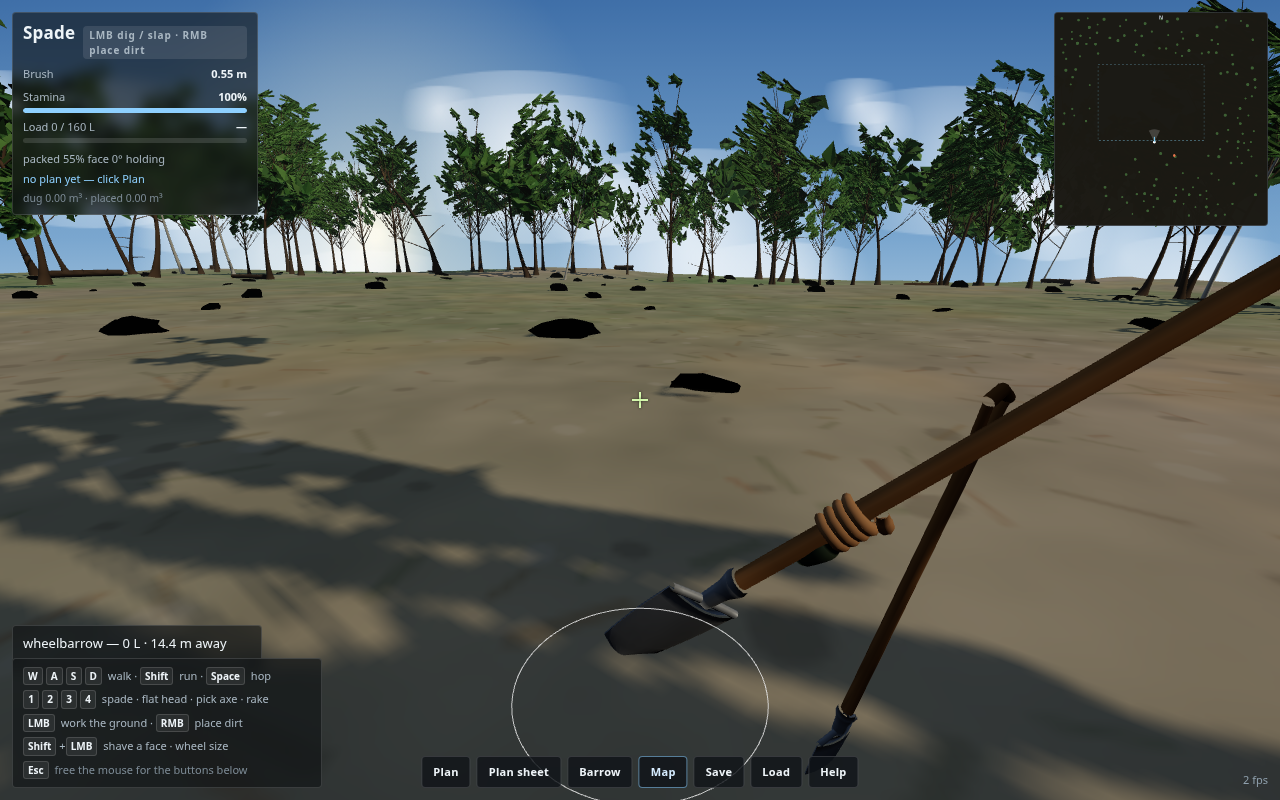
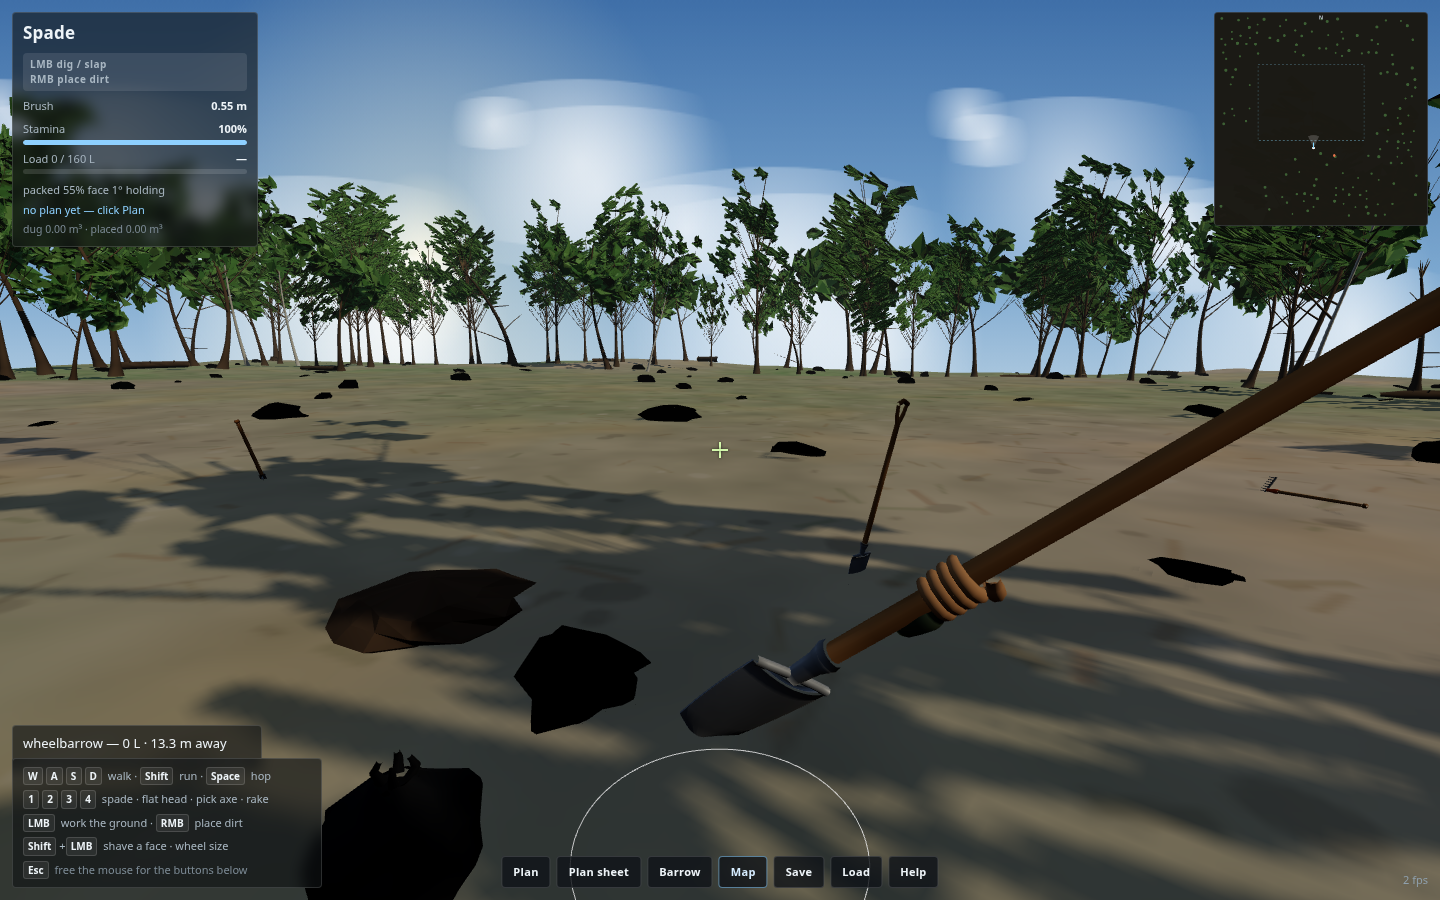
HUD: put the two mouse rules on their own two lines
The tool panel was squeezing 'LMB dig / slap - RMB place dirt' into one pill
that wrapped mid-phrase at 1440px. It is now a two-line block (LMB verb, then
RMB place dirt), so it reads the same at every width.

Also refreshed the controls screenshot, framing the held spade and the spade
standing in the dirt side by side instead of standing on top of the prop.

diff --git a/style.css b/style.css
@@ -40,8 +40,10 @@ html, body {
 #hudToolRow { display: flex; align-items: baseline; gap: 8px; }
 #hudTool { font-size: 17px; font-weight: 650; letter-spacing: .2px; }
 #hudMode {
-  font-size: 10px; font-weight: 700; letter-spacing: .9px;
-  padding: 2px 6px; border-radius: var(--r);
+  display: block; margin-top: 7px;
+  font-size: 10px; font-weight: 700; letter-spacing: .5px; line-height: 1.5;
+  white-space: pre-line;
+  padding: 4px 7px; border-radius: var(--r);
   background: rgba(255,255,255,.10); color: var(--dim);
 }
 #hudMode.pour { background: rgba(255, 209, 102, .18); color: var(--warn); }

diff --git a/js/ui.js b/js/ui.js
@@ -58,7 +58,7 @@ export const UI = {
   update(state) {
     const { player, planProgress, terrain, mode } = state;
     this.el.tool.textContent = player.tool.name;
-    this.el.mode.textContent = `LMB ${this.verb(player.tool.id)} · RMB place dirt`;
+    this.el.mode.textContent = `LMB ${this.verb(player.tool.id)}\nRMB place dirt`;
     this.el.mode.classList.toggle('pour', player.action === 'place dirt' || player.action === 'trickle');
     this.el.brush.textContent = player.brushRadius.toFixed(2) + ' m';
     this.el.action.textContent = player.working ? player.action : '—';

diff --git a/index.html b/index.html
@@ -24,8 +24,8 @@
   <div class="panel" id="hudTopLeft">
     <div id="hudToolRow">
       <span id="hudTool">Spade</span>
-      <span id="hudMode">WORK</span>
     </div>
+    <div id="hudMode">LMB dig / slap<br>RMB place dirt</div>
     <div class="hudLine"><span>Brush</span><b id="hudBrush">0.55 m</b></div>
     <div class="hudLine"><span>Stamina</span><b id="hudStamina">100%</b></div>
     <div class="bar"><i id="barStamina" style="width:100%"></i></div>
